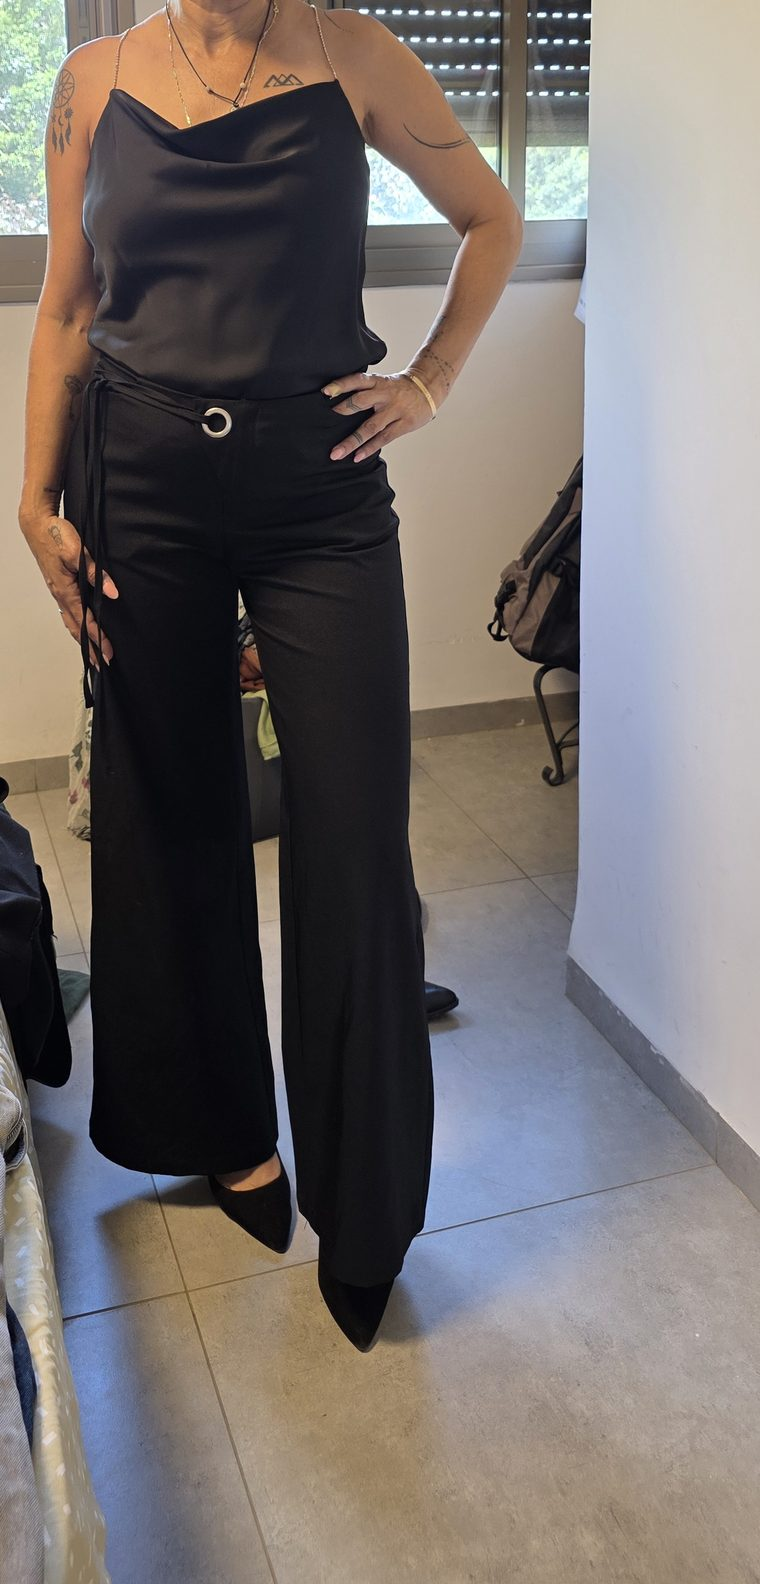
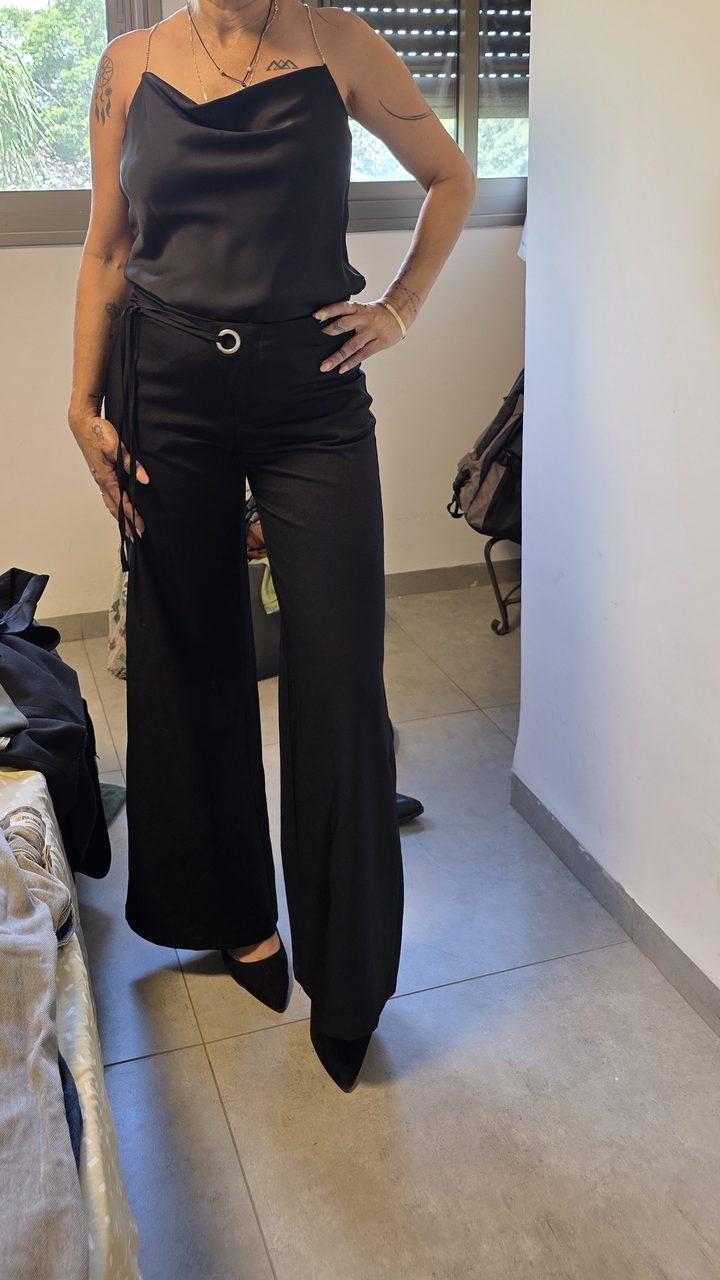
ההוכחות החברתיות כפיד בטלפון, וגלילה בצד
תשע תמונות ביחס 9:16 ושמונה הודעות לסירוגין, בגלילה אופקית.
נבחר 9:16 ולא 4:5 כי ביחס הרחב הרקע חוזר לתוך הפריים.
הכותרות "נקודת הפתיחה" ו"ההבטחה" ירדו.

diff --git a/noshem/index.html b/noshem/index.html
@@ -442,33 +442,53 @@ p{line-height:1.86;}
 /* משפט בודד שעומד לבדו, בלי קו */
 .punch-solo{margin:18px 0 4px;}
 
-/* ── רשת הלוקים ──
-   ארבע תמונות אמיתיות מתוך תהליכים. פינות חדות, בלי מסגרות
-   ובלי צל, כדי שזה יישאר מגזין ולא קטלוג. */
-/* רחב מעמודת הטקסט בכוונה. ב-800 פיקסלים כל תמונה יוצאת
-   כ-185 פיקסלים ונראית כמו תמונה ממוזערת, ולא כמו לוק. */
-.looks{display:grid;grid-template-columns:repeat(4,1fr);gap:22px;max-width:none;}
-.looks figure{margin:0;display:flex;flex-direction:column;gap:12px;}
-.looks img{
-  width:100%;height:auto;display:block;
-  aspect-ratio:3/5;object-fit:cover;object-position:center top;
-  background:var(--paper-3);
+/* ── הפיד ──
+   גלילה אופקית כמו בטלפון: תמונה, הודעה שהגיעה אחריה, ושוב.
+   היחס 9:16 נבחר כי ב-4:5 הרקע חוזר לתוך הפריים. */
+.feed-wrap{max-width:none;position:relative;}
+.feed{
+  display:flex;gap:16px;overflow-x:auto;overflow-y:hidden;
+  scroll-snap-type:x proximity;padding-bottom:20px;
+  scrollbar-width:thin;scrollbar-color:var(--rule-strong) transparent;
+  -webkit-overflow-scrolling:touch;
 }
-.looks figcaption{
-  font-size:.86rem;line-height:1.6;color:var(--ink-soft);
-  border-top:1px solid var(--rule);padding-top:10px;
+.feed::-webkit-scrollbar{height:6px;}
+.feed::-webkit-scrollbar-thumb{background:var(--rule-strong);}
+.fcard{flex:0 0 clamp(228px,64vw,278px);scroll-snap-align:start;margin:0;}
+
+.fphoto{display:flex;flex-direction:column;gap:10px;}
+.fphoto img{
+  width:100%;aspect-ratio:9/16;object-fit:cover;object-position:center top;
+  display:block;background:var(--paper-3);
 }
+.fphoto figcaption{font-size:.82rem;line-height:1.56;color:var(--ink-soft);}
+
+/* כרטיס הודעה. בעברית ההודעה שהתקבלה יושבת בצד ימין,
+   ולכן הפינה החדה היא העליונה־ימנית. */
+.fmsg{
+  aspect-ratio:9/16;background:var(--paper-3);
+  display:flex;flex-direction:column;justify-content:center;gap:12px;
+  padding:22px 18px;
+}
+.fmsg .head{
+  font-size:.6rem;font-weight:700;letter-spacing:.26em;
+  color:var(--ink-faint);text-align:center;margin-bottom:4px;
+}
+.fmsg .bub{
+  background:var(--paper);color:var(--ink);
+  font-size:.92rem;line-height:1.68;
+  padding:14px 16px;border-radius:4px 16px 16px 16px;
+}
+.fmsg .who{font-size:.7rem;color:var(--ink-faint);letter-spacing:.04em;text-align:start;}
+.feed-hint{font-size:.78rem;color:var(--ink-faint);letter-spacing:.04em;}
 .looks-note{font-size:.86rem;line-height:1.7;color:var(--ink-faint);}
 /* המשפט שסוגר בלוק, בבורדו */
 .punch-accent{color:var(--accent);}
 
-@media (max-width:980px){
-  .looks{grid-template-columns:repeat(2,1fr);gap:18px;}
-}
 @media (max-width:620px){
   section{padding:80px 0;}
-  .looks{gap:14px;}
-  .looks figcaption{font-size:.82rem;padding-top:8px;}
+  .feed{gap:12px;}
+  .fmsg{padding:18px 15px;}
   .hero{padding:36px 0 60px;}
   .stack{gap:28px;}
   .stack-sm{gap:17px;}
@@ -540,7 +560,6 @@ p{line-height:1.86;}
   <div class="wrap">
     <section>
       <div class="col stack">
-        <div class="eyebrow">נקודת הפתיחה</div>
         <h2>משהו השתנה, והמלתחה שלך עדיין שייכת לגרסה הקודמת שלך</h2>
         <p class="punch punch-solo">נשמע מוכר?</p>
         <p class="lede">את כבר לא אותה אישה שהיית לפני כמה שנים. הגוף השתנה, העבודה השתנתה והתפקיד שלך השתנה. גם את השתנית. והמלתחה, לפעמים, פשוט נשארה מאחור.</p>
@@ -566,7 +585,6 @@ p{line-height:1.86;}
     <section>
       <div class="stack">
         <div class="col stack-sm">
-          <div class="eyebrow">ההבטחה</div>
           <h2>בסוף השיחה יהיה לך הרבה יותר ברור מה נכון לך</h2>
           <p class="lede">בלי רשימת כללים של מותר ואסור, בלי להכניס אותך לתבנית של מבנה גוף, ובלי עוד קנייה בתקווה שהפעם זה יעבוד. שלושה דברים נבין יחד.</p>
         </div>
@@ -636,43 +654,35 @@ p{line-height:1.86;}
     <section>
       <div class="stack">
         <div class="col stack-sm">
-          <div class="eyebrow">לוקים מהתהליך</div>
-          <h2>ככה זה נראה בחיים האמיתיים</h2>
-          <p class="lede">ארבעה לוקים שנבנו בתהליך, על הגוף של היום ועל החיים של היום. לא דוגמניות, ולא הפקה.</p>
+          <div class="eyebrow">מהטלפון שלי</div>
+          <h2>לוקים אמיתיים, וההודעות שהגיעו אחריהם</h2>
+          <p class="lede">כל לוק כאן נבנה בתהליך, על הגוף של היום ועל החיים של היום. אחרי כל אחד מהם הגיעה הודעה, והיא כאן כלשונה.</p>
+          <p class="feed-hint">אפשר לגלול בצד ←</p>
         </div>
 
-        <div class="col-wide looks">
-          <figure><img src="../img-abchon/look-01.jpg" width="760" height="1267" loading="lazy" alt="לוק שנבנה בתהליך סטיילינג אישי"><figcaption>בלייזר כחול־אפור, גופייה קרם, ג'ינס בוטקאט כהה וחגורה חומה</figcaption></figure>
-          <figure><img src="../img-abchon/look-02.jpg" width="760" height="1267" loading="lazy" alt="לוק שנבנה בתהליך סטיילינג אישי"><figcaption>בלייזר שחור, סריג זהוב, מכנסיים ישרים ועקב שחור</figcaption></figure>
-          <figure><img src="../img-abchon/look-03.jpg" width="760" height="1267" loading="lazy" alt="לוק שנבנה בתהליך סטיילינג אישי"><figcaption>גופיית סאטן, מכנסיים רחבים וחגורה דקה</figcaption></figure>
-          <figure><img src="../img-abchon/look-04.jpg" width="760" height="1267" loading="lazy" alt="לוק שנבנה בתהליך סטיילינג אישי"><figcaption>חולצת פשתן קשורה, חצאית מידי וכפכפי עקב</figcaption></figure>
-        </div>
-
-        <p class="looks-note col-wide">הפנים מחוץ לפריים לבקשת הלקוחות, והתמונות מתפרסמות באישורן.</p>
-
-        <div class="col stack-sm">
-          <div class="eyebrow">מה שנשים מספרות אחרי</div>
-          <h2>אף אחת מהן לא מדברת על בגד</h2>
-        </div>
-
-        <div class="tgrid">
-          <div class="tcard">
-            <q>מאז שהתחלנו את התהליך, אני פשוט לא מפסיקה לקבל מחמאות על הלוק שלי, כמה הבגדים מחמיאים, כמה נשית אני נראית, ושאלות של אם חזרתי לעבוד.</q>
-            <div class="who">לקוחה, אחרי התהליך המלא</div>
-          </div>
-          <div class="tcard">
-            <q>אחד הדברים הכי חשובים שלימדת אותי זה לשלב ולעבוד עם מה שיש. הלוק בתמונה הזאת בכלל בלי בגדים חדשים. ובעיקר ממש עוררת אותי חזרה לחיים.</q>
-            <div class="who">לקוחה, אחרי מפגש המלתחה</div>
-          </div>
-          <div class="tcard">
-            <q>הבנתי כמה נכון מלתחה מדויקת ולא ארון מפוצץ. הבנתי כמה חלק מהגזרות שלבשתי לא מתאימות לי. יש לי הרבה מה ללמוד, וכמו ספוג רוצה לשמוע ולגלות על עצמי.</q>
-            <div class="who">לקוחה, אחרי המפגש הראשון בלבד</div>
-          </div>
-          <div class="tcard wide">
-            <q>אני לא יודעת איזה קסם עשית, אבל הצלחת לגרום לאמא שלי לאהוב קניות. דברים ששנים אני ואחיות שלי לא מצליחות לעשות. מעבר לזה, היא מתלבשת וואו, בזכותך.</q>
-            <div class="who">הבת של לקוחה, שכתבה מיוזמתה</div>
+        <div class="feed-wrap col-wide">
+          <div class="feed">
+          <figure class="fcard fphoto"><img src="../img-abchon/look-01.jpg" width="720" height="1280" loading="lazy" alt="לוק שנבנה בתהליך סטיילינג אישי"><figcaption>בלייזר כחול־אפור, גופייה קרם, ג'ינס בוטקאט כהה וחגורה חומה</figcaption></figure>
+          <div class="fcard fmsg"><div class="head">הודעה שהגיעה אחרי</div><p class="bub">מאז שהתחלנו את התהליך אני פשוט לא מפסיקה לקבל מחמאות על הלוק שלי, כמה הבגדים מחמיאים וכמה נשית אני נראית.</p><div class="who">לקוחה, אחרי התהליך המלא</div></div>
+          <figure class="fcard fphoto"><img src="../img-abchon/look-02.jpg" width="720" height="1280" loading="lazy" alt="לוק שנבנה בתהליך סטיילינג אישי"><figcaption>בלייזר שחור, סריג זהוב, מכנסיים ישרים ועקב שחור</figcaption></figure>
+          <div class="fcard fmsg"><div class="head">הודעה שהגיעה אחרי</div><p class="bub">לא פשוט לי להתרגל לשינויים בגוף, אבל בזכותך הרגשתי הרבה יותר בנוח עם עצמי ועם האני החדשה שלי.</p><div class="who">לקוחה, אחרי יום קניות</div></div>
+          <figure class="fcard fphoto"><img src="../img-abchon/look-03.jpg" width="720" height="1280" loading="lazy" alt="לוק שנבנה בתהליך סטיילינג אישי"><figcaption>גופיית סאטן, מכנסיים רחבים וחגורה דקה</figcaption></figure>
+          <div class="fcard fmsg"><div class="head">הודעה שהגיעה אחרי</div><p class="bub">אחד הדברים הכי חשובים שלימדת אותי זה לשלב ולעבוד עם מה שיש.</p><p class="bub">הלוק בתמונה הזאת בכלל בלי בגדים חדשים.</p><div class="who">לקוחה, אחרי מפגש המלתחה</div></div>
+          <figure class="fcard fphoto"><img src="../img-abchon/look-04.jpg" width="720" height="1280" loading="lazy" alt="לוק שנבנה בתהליך סטיילינג אישי"><figcaption>חולצת פשתן קשורה, חצאית מידי וכפכפי עקב</figcaption></figure>
+          <div class="fcard fmsg"><div class="head">הודעה שהגיעה אחרי</div><p class="bub">היה לי מהמם היום. אני בטוחה שזה היה לי טיפול רגשי לדעת לשחרר ולהוציא מהארון.</p><p class="bub">הבנתי כמה נכון מלתחה מדויקת ולא ארון מפוצץ. מחכה כבר למפגש הבא.</p><div class="who">לקוחה, אחרי המפגש הראשון בלבד</div></div>
+          <figure class="fcard fphoto"><img src="../img-abchon/look-05.jpg" width="720" height="1280" loading="lazy" alt="לוק שנבנה בתהליך סטיילינג אישי"><figcaption>ז'קט־חולצה נייבי על שמלה שחורה וסנדלי עקב</figcaption></figure>
+          <div class="fcard fmsg"><div class="head">הודעה שהגיעה אחרי</div><p class="bub">מרגישה מעולה עם הבגדים החדשים שלי. זה ממש ממש שינה לי המון בתחושה ובביטחון.</p><div class="who">לקוחה, אחרי התהליך</div></div>
+          <figure class="fcard fphoto"><img src="../img-abchon/look-06.jpg" width="720" height="1280" loading="lazy" alt="לוק שנבנה בתהליך סטיילינג אישי"><figcaption>חולצת פשתן לבנה פתוחה על גופייה, וג'ינס בהיר רחב</figcaption></figure>
+          <div class="fcard fmsg"><div class="head">הודעה שהגיעה אחרי</div><p class="bub">הרגשתי שיש לי שותפה אמיתית לתהליך.</p><p class="bub">הרגשתי שאני יכולה להשאיר את המוח בבית, ושיש על מי לסמוך.</p><div class="who">לקוחה, אחרי יום קניות</div></div>
+          <figure class="fcard fphoto"><img src="../img-abchon/look-07.jpg" width="720" height="1280" loading="lazy" alt="לוק שנבנה בתהליך סטיילינג אישי"><figcaption>ווסט ג'ינס ארוך, גופייה מפוספסת וג'ינס רחב בהיר</figcaption></figure>
+          <div class="fcard fmsg"><div class="head">הודעה שהגיעה אחרי</div><p class="bub">בזכותך אני מקבלת מלא פרגונים. חסכת לי מלא זמן בחנויות, וחוויית הרכישה הייתה כיפית וחסכונית.</p><div class="who">לקוחה, אחרי יום קניות</div></div>
+          <figure class="fcard fphoto"><img src="../img-abchon/look-08.jpg" width="720" height="1280" loading="lazy" alt="לוק שנבנה בתהליך סטיילינג אישי"><figcaption>חולצה שחורה פשוטה ומכנסיים אפורים</figcaption></figure>
+          <div class="fcard fmsg"><div class="head">הודעה שהגיעה אחרי</div><p class="bub">אני לא יודעת איזה קסם עשית, אבל הצלחת לגרום לאמא שלי לאהוב קניות.</p><p class="bub">דברים ששנים אני ואחיות שלי לא מצליחות לעשות. מעבר לזה, היא מתלבשת וואו, בזכותך.</p><div class="who">הבת של לקוחה, שכתבה מיוזמתה</div></div>
+          <figure class="fcard fphoto"><img src="../img-abchon/look-09.jpg" width="720" height="1280" loading="lazy" alt="לוק שנבנה בתהליך סטיילינג אישי"><figcaption>חולצה מכופתרת תכלת ומכנסי פשתן קרם</figcaption></figure>
           </div>
         </div>
+
+        <p class="looks-note col-wide">הפנים מחוץ לפריים לבקשת הלקוחות, והתמונות מתפרסמות באישורן. ההודעות מצוטטות כלשונן, בלי שם ובלי פרט מזהה.</p>
       </div>
     </section>
   </div>
